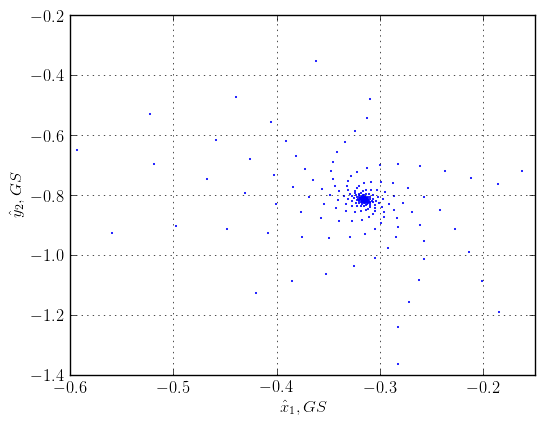
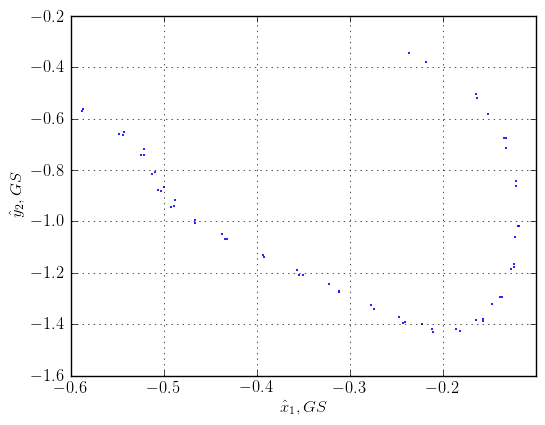
added reflection quotienting to the visualisation codes

diff --git a/blog/burak/PorterKnobloch/python/sspsolver.py b/blog/burak/PorterKnobloch/python/sspsolver.py
@@ -9,34 +9,42 @@ from scipy.integrate import odeint
 import twomode
 import numpy as np
 
-#Load parameters:
-p = np.loadtxt('data/parameters.dat')
+#Callable function version:
+def integrate(x0, p, t, abserror=1.0e-8, relerror=1.0e-6):
+	"""
+	Takes the initial condition, parameters and the time interval
+	returns the result as a series in time.
+	"""
+	xsol = odeint(twomode.vfullssp, x0, t, args=(p,), atol = abserror, rtol = relerror)
+	
+	return xsol
 
-#Initial conditions:
-#x10 = 0.181612
-#x20 = -0.512500
-#y10 = 1.939339
-#y20 = -0.010343
-x10 = 0.01
-x20 = 0.01
-y10 = 0.01
-y20 = 0.01
+if __name__ == "__main__":
+	
+	#Load parameters:
+	p = np.loadtxt('data/parameters.dat')
 
-# ODE solver parameters
-abserr = 1.0e-8
-relerr = 1.0e-6
-stoptime = 1000
-numpoints = 100000
+	#Initial conditions:
+	x10=-0.713404949283 
+	x20=-0.713404949282 
+	y10=0.084155488181 
+	y20=-1.5962565603 
 
-# Create the time samples for the output of the ODE solver:
-t = [stoptime * float(i) / (numpoints - 1) for i in range(numpoints)]
+	# ODE solver parameters
+	abserr = 1.0e-8
+	relerr = 1.0e-6
+	stoptime = 300
+	numpoints = 30000
 
-# Pack up the initial conditions:
-x0 = [x10,x20,y10,y20]
+	# Create the time samples for the output of the ODE solver:
+	t = [stoptime * float(i) / (numpoints - 1) for i in range(numpoints)]
+	
+	# Pack up the initial conditions:
+	x0 = [x10,x20,y10,y20]
 
-# Call the ODE solver
-xsol = odeint(twomode.vfullssp, x0, t, args=(p,), atol = abserr, rtol = relerr)
+	# Call the ODE solver
+	xsol = odeint(twomode.vfullssp, x0, t, args=(p,), atol = abserr, rtol = relerr)
 
-#Print the solution
-for t1, x1 in zip(t,xsol):
-	print t1, x1[0], x1[1], x1[2], x1[3]
+	#Print the solution
+	for t1, x1 in zip(t,xsol):
+		print t1, x1[0], x1[1], x1[2], x1[3]

diff --git a/blog/burak/PorterKnobloch/python/onslicesolver.py b/blog/burak/PorterKnobloch/python/onslicesolver.py
@@ -10,9 +10,6 @@ import numpy as np
 from scipy.integrate import odeint
 import twomode
 
-#Load parameters:
-p = np.loadtxt('data/parameters.dat')
-
 T = twomode.generator()
 xhatp = np.array([1,1,0,0],float)
 tp = np.dot(T, xhatp)
@@ -52,30 +49,23 @@ def integrate(xphi0, p, t, abserror=1.0e-8, relerror=1.0e-6):
 #Integrate only if the module is called as a script:
 
 if __name__ == "__main__":
+	
+	#Load parameters:
+	p = np.loadtxt('data/parameters.dat')
+
 	#Initial conditions:
-	#x10 = -0.0101015007898    
-	#x20 = -0.0101015007898
-	#y10 = 0.00989852391435
-	#y20 = 0.00990045343336
-	#phi0 = 3.14169214968
 	
-	#x10 = -0.419227943472
-	#x20 = -0.419227943472
-	#y10 = 0.535554573642
-	#y20 = -0.126812849644
-	#phi0 = 819.437667713
-	
-	x10=-0.713404949283 
-	x20=-0.713404949282 
-	y10=0.084155488181 
-	y20=-1.5962565603 
+	x10=-0.291878751383   
+	x20=-0.291878751383 
+	y10=0.940375834449 
+	y20=0.227972746079 
 	phi0= 0
 	
 	# ODE solver parameters
 	abserr = 1.0e-8
 	relerr = 1.0e-6
-	stoptime = 1000
-	numpoints = 100000
+	stoptime = 300
+	numpoints = 30000
 	
 	# Create the time samples for the output of the ODE solver:
 	t = [stoptime * float(i) / (numpoints - 1) for i in range(numpoints)]

diff --git a/blog/burak/PorterKnobloch/python/onslice3dplotter.py b/blog/burak/PorterKnobloch/python/onslice3dplotter.py
@@ -29,10 +29,30 @@ ax.set_zlabel('$\hat{y}_2$', fontsize=16)
 #ax.view_init(15,30)
 savefig('image/solvedonslice.png', bbox_inches='tight', dpi=150)
 
-fig2 = plt.figure()
-plt.plot(t,np.mod(phi, 2*np.pi))
-xlabel('Time', fontsize=16)
-ylabel('$\phi (t)$', fontsize=16)
+#fig2 = plt.figure()
+#plt.plot(t,np.mod(phi, 2*np.pi))
+#xlabel('Time', fontsize=16)
+#ylabel('$\phi (t)$', fontsize=16)
 
+redref = 1
+
+if redref:
+	
+	indexref = np.where(y2hat<0)
+	
+	y2hatrefred = np.copy(y2hat)
+	y2hatrefred[indexref] = -y2hat[indexref]
+	x2hatrefred = np.copy(x2hat)
+	x2hatrefred[indexref] = -x2hat[indexref]
+
+	fig = plt.figure()
+	ax=fig.gca(projection='3d')
+	ax.plot(x1hat, y1hat, y2hatrefred, linewidth=0.3)
+	ax.set_xlabel('$\hat{x}_{1}$', fontsize=16)
+	ax.set_ylabel('$\hat{y}_1$', fontsize=16)
+	ax.set_zlabel('$\hat{y}_{2,refred}$', fontsize=16)
+	savefig('image/onslicerefred.png', bbox_inches='tight', dpi=150)
+
+	
 plt.tight_layout()
 plt.show()

diff --git a/blog/burak/PorterKnobloch/python/ssp3dplotter.py b/blog/burak/PorterKnobloch/python/ssp3dplotter.py
@@ -12,6 +12,7 @@ from matplotlib.font_manager import FontProperties
 import matplotlib as mpl
 from mpl_toolkits.mplot3d import Axes3D
 import matplotlib.pyplot as plt
+import numpy as np
 
 mpl.rcParams['text.usetex']=True
 mpl.rcParams['text.latex.unicode']=True
@@ -27,6 +28,25 @@ ax.set_ylabel('$x_2$', fontsize=16)
 ax.set_zlabel('$y_1$', fontsize=16)
 #ax.view_init(15,30)
 savefig('image/ssp.png', bbox_inches='tight', dpi=150)
+
+redref = 1
+
+if redref:
+	
+	indexref = np.where(y2<0)
+	
+	y2refred = np.copy(y2)
+	y2refred[indexref] = -y2[indexref]
+	x2refred = np.copy(x2)
+	x2refred[indexref] = -x2[indexref]
+
+	fig = plt.figure()
+	ax=fig.gca(projection='3d')
+	ax.plot(x1, y2refred, y1, linewidth=0.3)
+	ax.set_xlabel('$x_1$', fontsize=16)
+	ax.set_ylabel('$y_2$', fontsize=16)
+	ax.set_zlabel('$y_1$', fontsize=16)
+	savefig('image/ssprefred.png', bbox_inches='tight', dpi=150)
 
 plt.tight_layout()
 plt.show()

diff --git a/blog/burak/PorterKnobloch/python/setparameters.py b/blog/burak/PorterKnobloch/python/setparameters.py
@@ -5,7 +5,7 @@ import numpy as np
 
 #Parameter values:
 mu1 = 1 
-a1 = 0.475 
+a1 = 0.4775 
 b1 = -1 
 c1 = 1 
 mu2 = -1 
